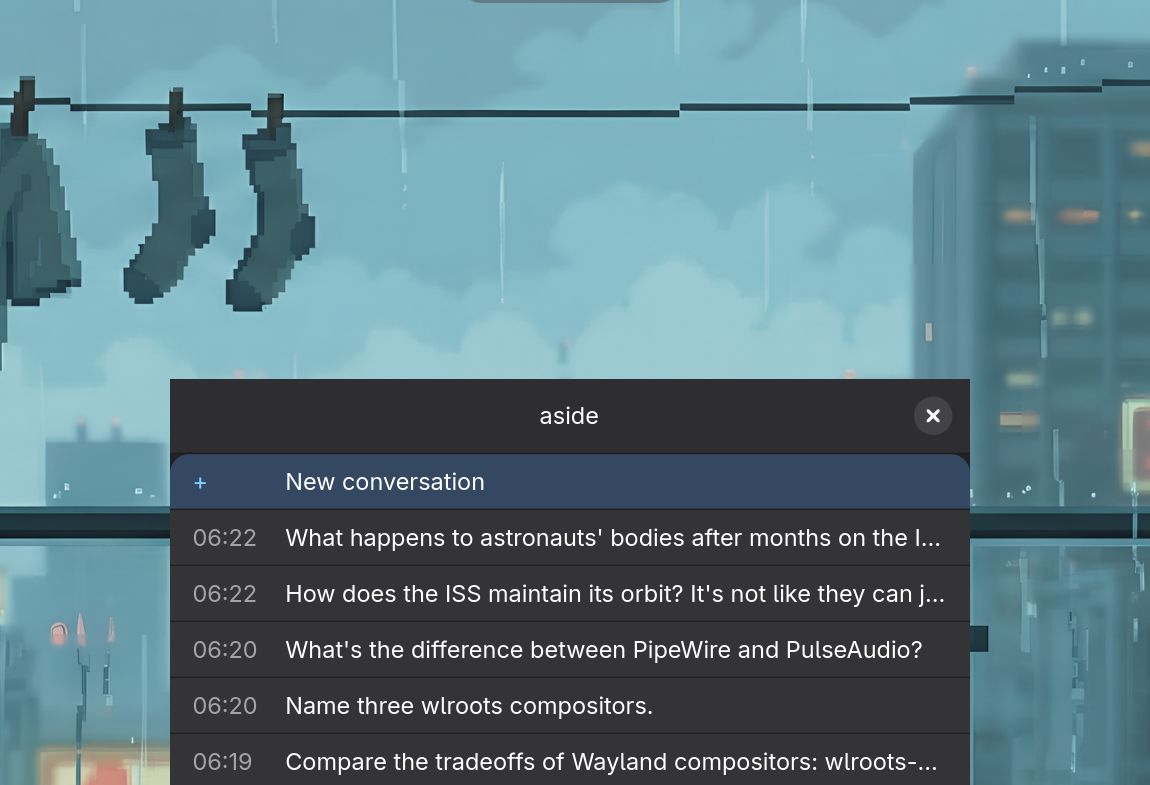
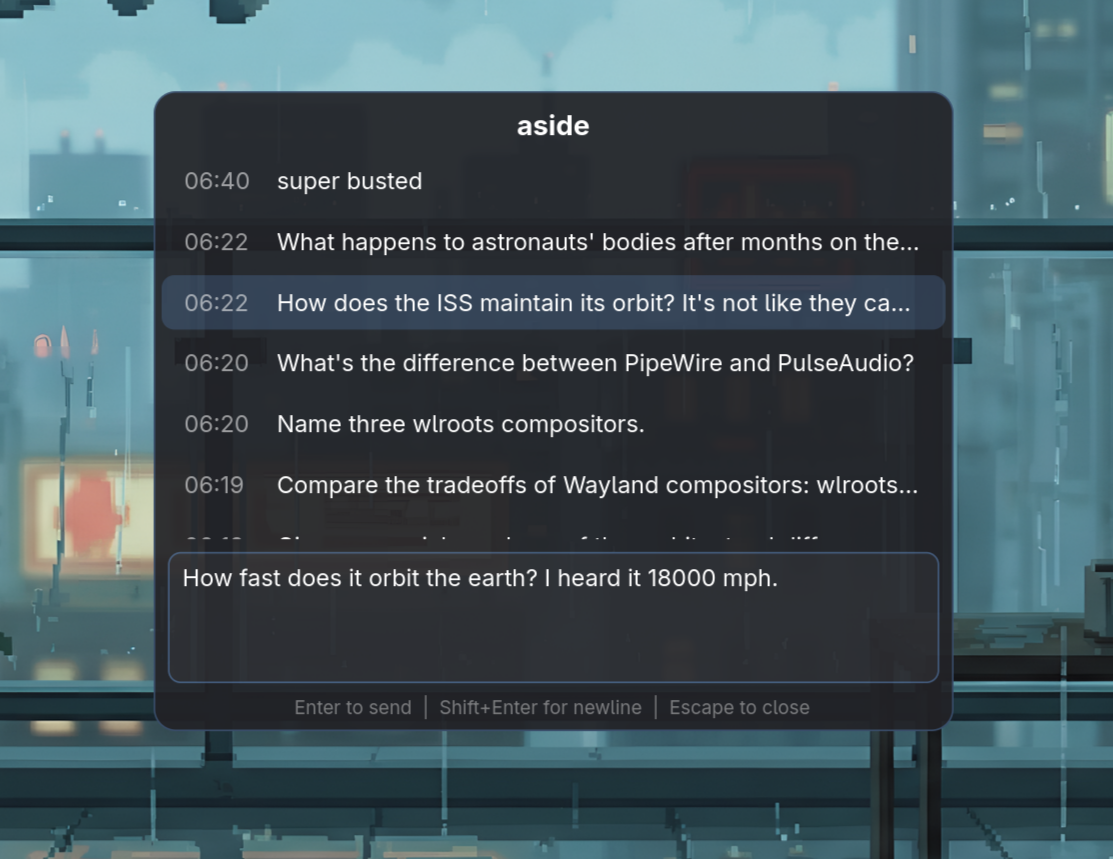
docs: trim README, remove redundant screenshots
Cut the copy down to a feature list. Removed overlay closeup,
actions bar, and waybar screenshots — the hero shot covers it.
Replaced input popup with a cleaner capture.

diff --git a/README.md b/README.md
@@ -1,46 +1,17 @@
 # aside
 
-Wayland-native LLM assistant. You talk to it (keyboard or mic), it streams the response onto a floating overlay on your desktop, and it goes away when it's done.
+Wayland-native LLM assistant. Ask it something, it streams the answer onto a floating overlay on your desktop, then gets out of the way.
 
-![Overlay streaming a response](screenshots/overlay-streaming.png)
+![aside overlay](screenshots/overlay-streaming.png)
 
-## Overlay
+- **Overlay** — C11 layer-shell surface, streams tokens in real time, auto-dismisses. Hover to keep it, right-click to cancel.
+- **Voice** — STT via faster-whisper, TTS via Kokoro. Talk to it, it talks back.
+- **Actions bar** — pops up after a response with mic, open transcript, and reply buttons.
+- **Input popup** — GTK4 window with conversation history. Pick one to continue or start fresh.
+- **Plugins** — drop a Python file with `TOOL_SPEC` + `run()` in a directory. Ships with shell, screenshot, web search, memory, clipboard.
+- **Any LLM** — [LiteLLM](https://github.com/BerriAI/litellm) under the hood. Claude, GPT-4o, Gemini, Ollama, whatever.
 
-C11 layer-shell surface. Streams text token-by-token as it comes back from the LLM. Auto-scrolls, fades content at the edges, and dismisses itself after a few seconds. Hover to keep it around. Left-click to dismiss. Right-click to cancel mid-stream.
-
-![Overlay text detail](screenshots/overlay-closeup.png)
-
-The accent bar at the top is orange when the LLM is responding, green when it's listening to your mic. When nothing's happening, the overlay doesn't exist — no window, no tray icon.
-
-## Actions bar
-
-When a response finishes, a small bar appears below the overlay with three buttons — mic (voice reply), open (view the transcript), and reply (inline text input). Goes away on its own after 5 seconds.
-
-![Actions bar](screenshots/actions-bar.png)
-
-## Voice
-
-Speech-to-text via faster-whisper. You talk, it transcribes in real time on the overlay, and auto-sends when you stop. TTS via Kokoro — responses are synthesized sentence-by-sentence and played back as text streams in. Middle-click the overlay to kill the audio without stopping the text.
-
-## Input popup
-
-GTK4 window for typing queries. Shows recent conversations so you can pick one to continue.
-
-![Input popup](screenshots/input-popup.png)
-
-## Waybar
-
-Custom module that shows the model name, cost, and what the daemon is doing. Click it to open the input popup.
-
-![Waybar module](screenshots/waybar-module.png)
-
-## LLM support
-
-Uses [LiteLLM](https://github.com/BerriAI/litellm) — Claude, GPT-4o, Gemini, Ollama, Groq, Mistral, whatever. One config line to switch.
-
-## Plugins
-
-Drop a Python file with a `TOOL_SPEC` dict and a `run()` function into the plugins directory. That's it. Built-in tools: shell, screenshot (sends the image to the LLM), web search, persistent memory, clipboard.
+![aside input](screenshots/input-popup.png)
 
 ## Install
 
@@ -51,7 +22,7 @@ make install
 systemctl --user enable --now aside-daemon aside-overlay
 ```
 
-Voice, TTS, and GTK input are separate:
+Optional:
 
 ```bash
 make install-extras-voice  # faster-whisper + VAD
@@ -63,12 +34,10 @@ make install-extras-gtk    # input popup
 
 | | |
 |---|---|
-| [Installation](docs/install.md) | Dependencies, build steps, AUR |
-| [Usage & CLI](docs/usage.md) | All commands |
-| [Configuration](docs/configuration.md) | Config reference |
+| [Installation](docs/install.md) | Dependencies, build, AUR |
+| [Usage](docs/usage.md) | CLI reference |
+| [Configuration](docs/configuration.md) | Config options |
 | [Plugins](docs/plugins.md) | Plugin API |
-| [Architecture](docs/architecture.md) | System design, sockets, data flow |
-
-## License
+| [Architecture](docs/architecture.md) | System design |
 
 MIT
